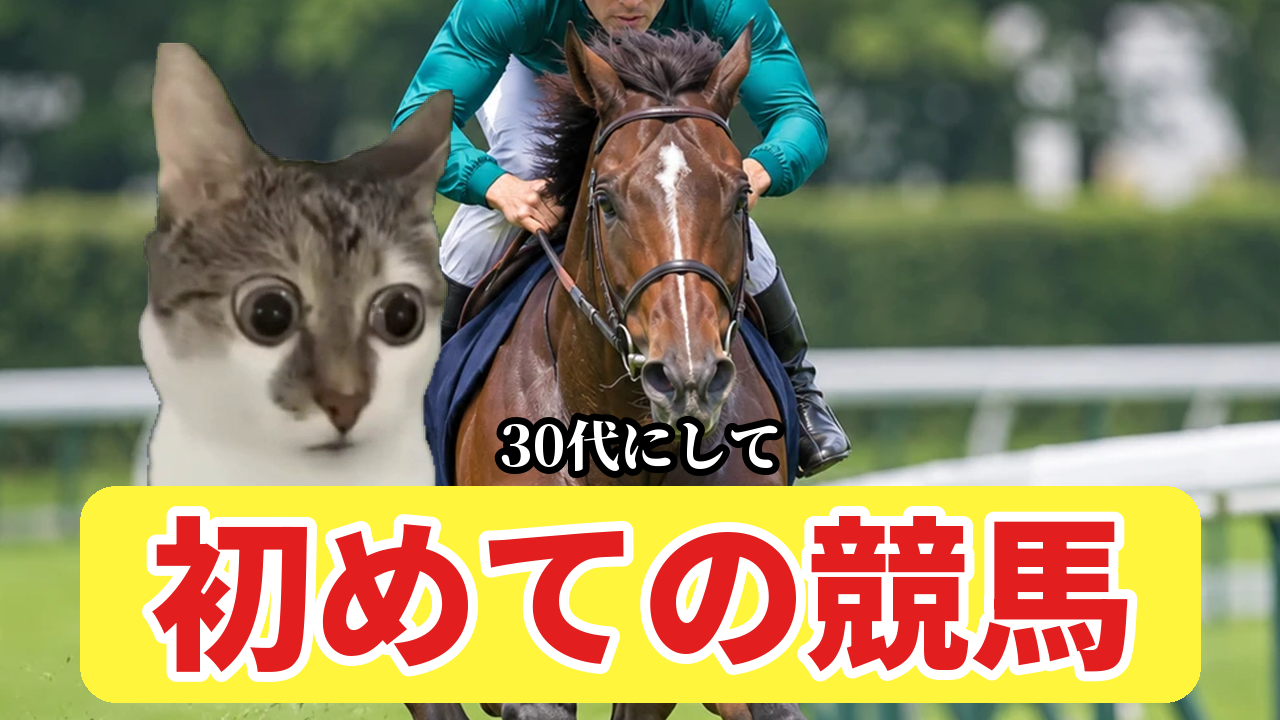
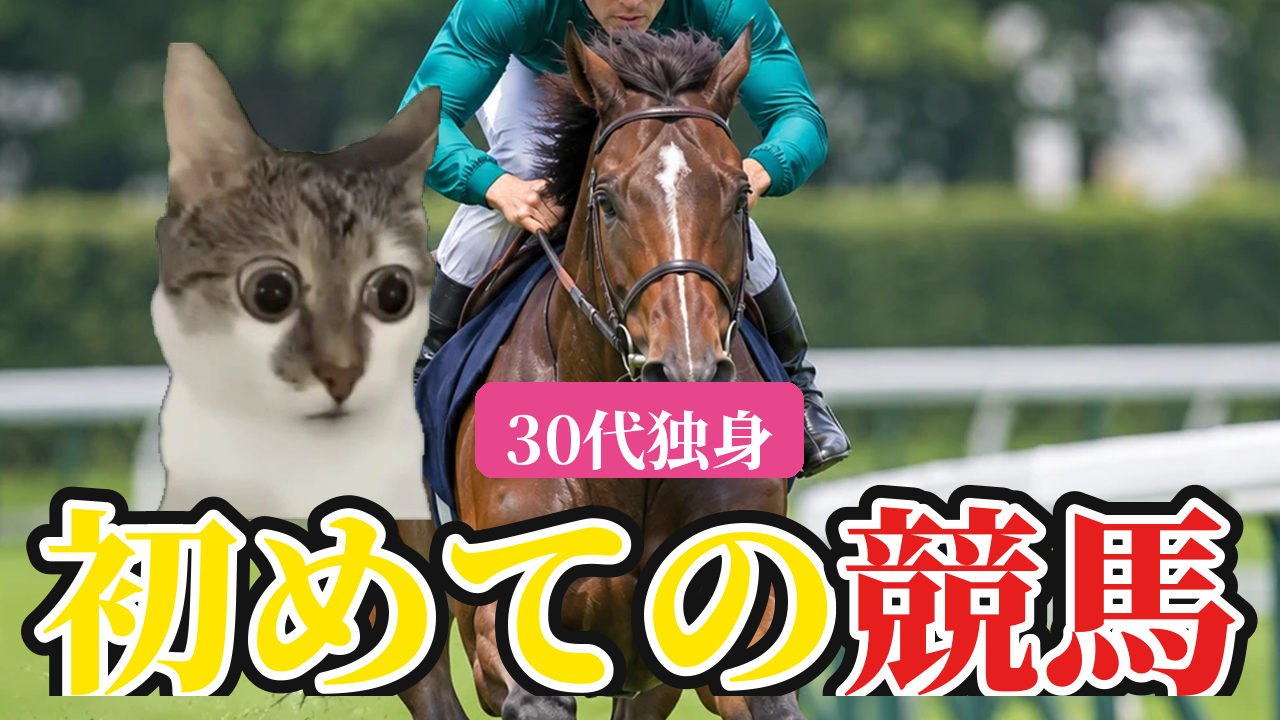
自堕落#22 競馬：サムネ（1人焼肉の形・ピンク札・黄赤の極太明朝）
Claude-Session: https://claude.ai/code/session_011g9CsrfFD5YswfNSvNDW39

diff --git a/catmeme/make_thumb_keiba.py b/catmeme/make_thumb_keiba.py
@@ -86,3 +86,46 @@ def final2():
     small = JT.serif_text("30代にして", 54, T.WHITE, 7, T.BLACK, 600)
     img.alpha_composite(small, ((T.W - small.width) // 2, by - small.height - 8))
     T.save(img, "jidaraku_22_keiba_thumb_final.png")
+
+
+def final3():
+    """11/17 ユーザー指定：「20代ぼっち女 1人焼肉に行く」のサムネをまねる。帯なし・ピンクの角丸札に白い明朝「30代独身」・
+    下に極太明朝の大きな文字「初めての（黄色）競馬（赤）」（白いふち＋黒いふち）。背景は走る馬の全面。"""
+    from PIL import ImageFont
+    import jidaraku as J
+    img = T.fill_photo("f_horse", T.W, T.H, cy=0.3, zoom=1.06)
+    T.put_cat(img, "stare_big_eyes_tabby_kitten", 0.6, 300, 520, 480, False)
+    f = ImageFont.truetype(J.SERIF, 200)
+    try:
+        f.set_variation_by_axes([900])
+    except Exception:
+        pass
+    parts = [("初めての", (255, 230, 0)), ("競馬", (230, 30, 30))]
+    d0 = ImageDraw.Draw(Image.new("RGBA", (8, 8)))
+    ws = [d0.textlength(t, font=f) for t, _ in parts]
+    tw = int(sum(ws)) + 60
+    th = 260
+    layer = Image.new("RGBA", (tw, th), (0, 0, 0, 0))
+    d = ImageDraw.Draw(layer)
+    x = 30
+    for (t, col), w in zip(parts, ws):
+        d.text((x, 10), t, font=f, fill=(20, 20, 20), stroke_width=22, stroke_fill=(20, 20, 20))
+        d.text((x, 10), t, font=f, fill=col, stroke_width=9, stroke_fill=(255, 255, 255))
+        x += w
+    layer = layer.crop(layer.getbbox())
+    if layer.width > T.W - 40:
+        k = (T.W - 40) / layer.width
+        layer = layer.resize((int(layer.width * k), int(layer.height * k)), Image.LANCZOS)
+    by = T.H - layer.height - 24
+    sf = ImageFont.truetype(J.SERIF, 64)
+    try:
+        sf.set_variation_by_axes([800])
+    except Exception:
+        pass
+    sw = int(d0.textlength("30代独身", font=sf))
+    tag = Image.new("RGBA", (sw + 60, 96), (0, 0, 0, 0))
+    ImageDraw.Draw(tag).rounded_rectangle((0, 0, tag.width - 1, tag.height - 1), 18, fill=(232, 70, 140, 255))
+    ImageDraw.Draw(tag).text((30, 8), "30代独身", font=sf, fill=(255, 255, 255))
+    img.alpha_composite(tag, ((T.W - tag.width) // 2, by - tag.height - 6))
+    img.alpha_composite(layer, ((T.W - layer.width) // 2, by))
+    T.save(img, "jidaraku_22_keiba_thumb_final.png")
